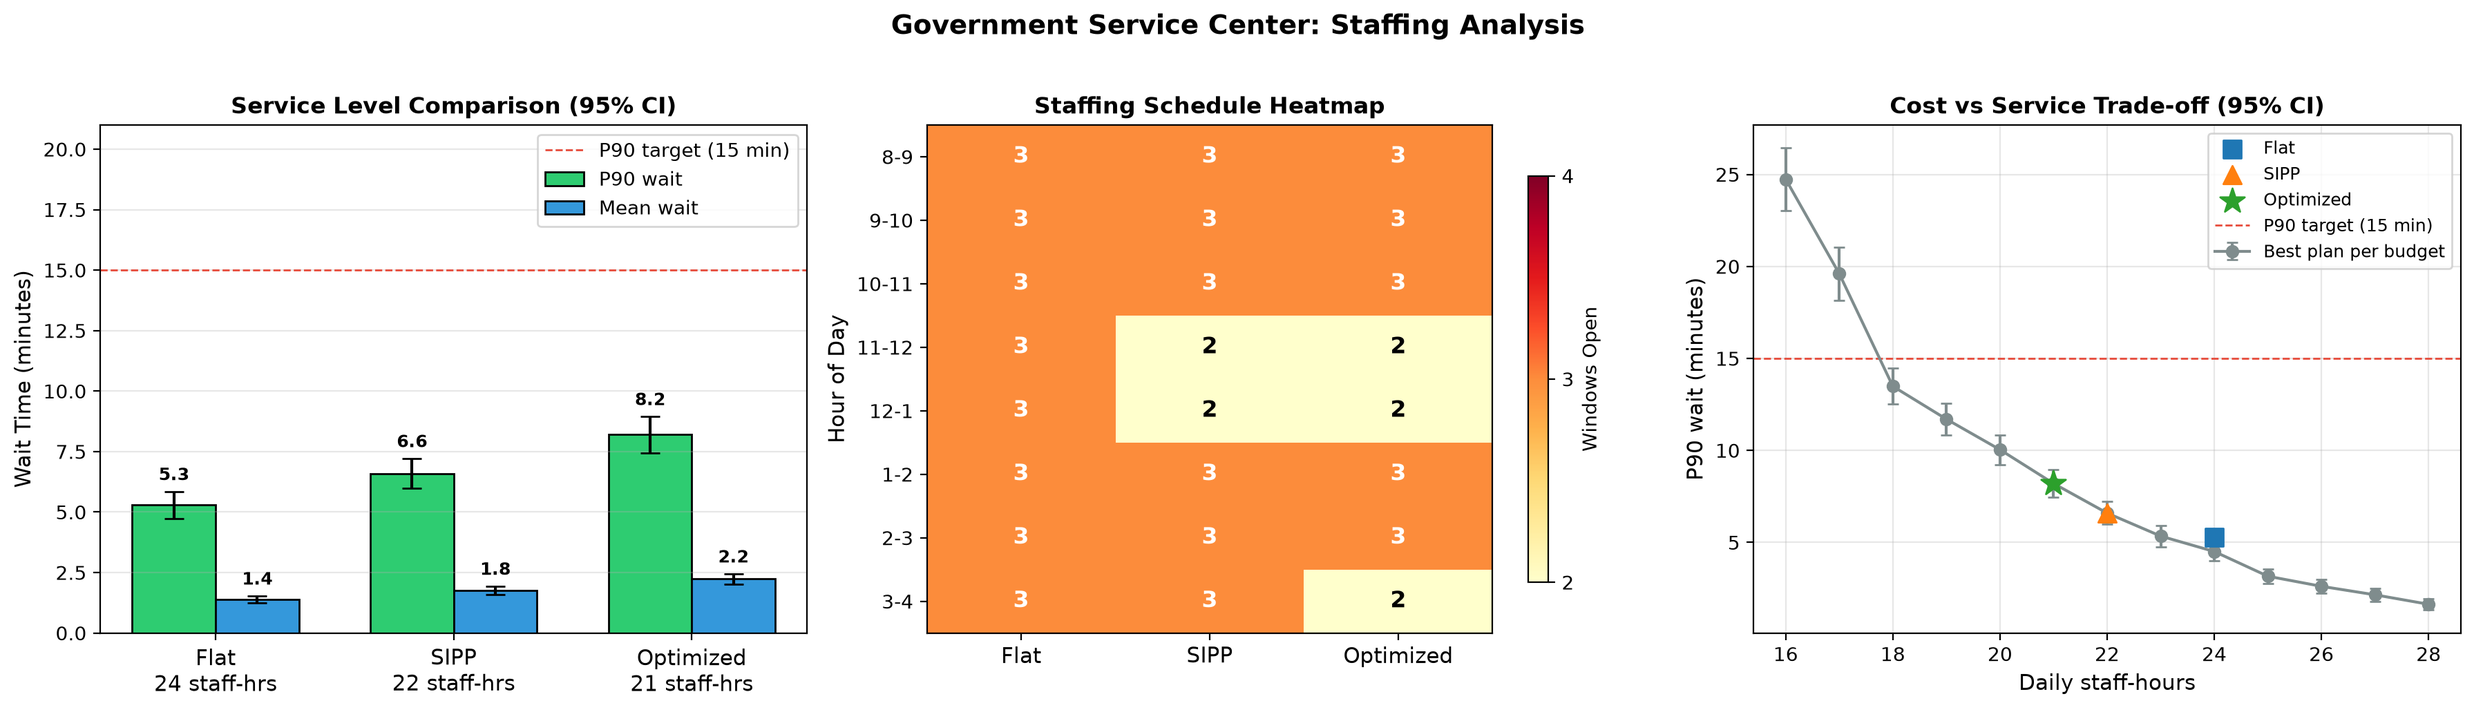
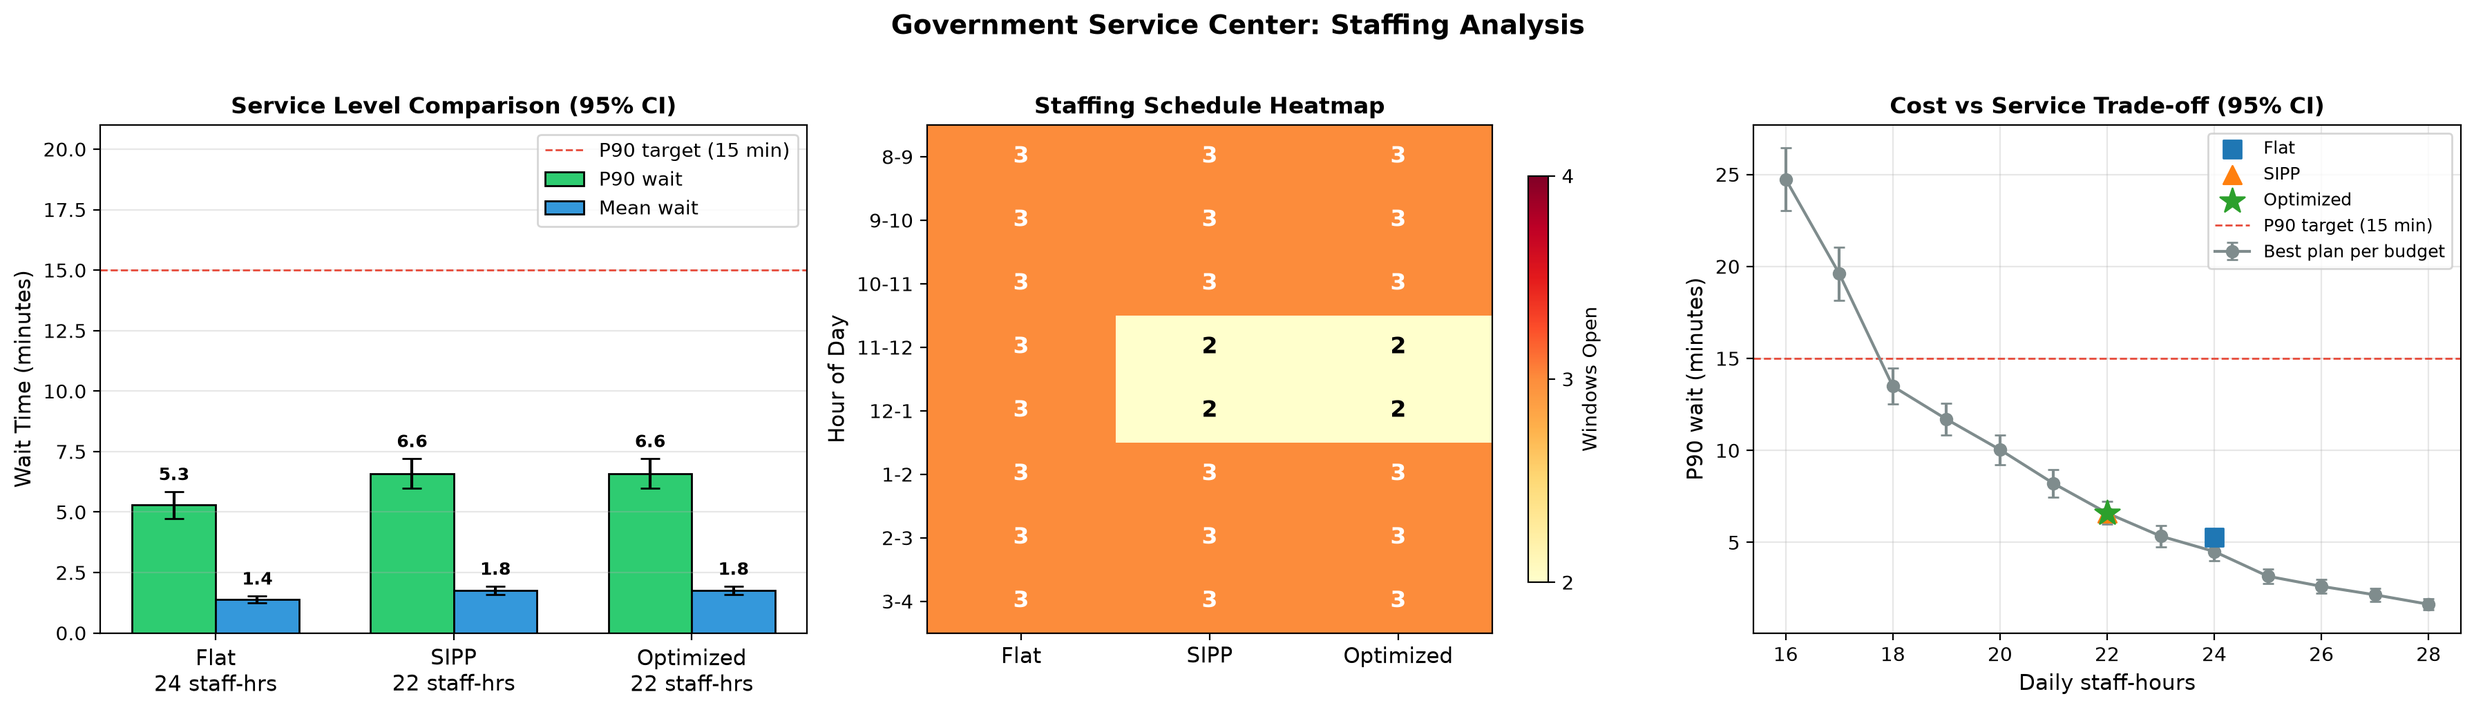
Optimizer: pay for work outside open windows by default
Staff cost is now paid staff-hours: open window-hours plus the service a
closing window finishes after its hour and all service after closing, at
--overtime-rate x the wage (default 1; 0 restores the open-hours objective).
Research round 8 (REPORT section 5.12) showed that counting open hours only
treats that work as free.

For the default office the recommendation moves from the 21 h plan to the
22 h plan [3, 3, 3, 2, 2, 3, 3, 3] (statistically tied); README output
regenerated. Also restores the simulator-skip guard on TestStressTest.

diff --git a/python/optimizer.py b/python/optimizer.py
@@ -52,6 +52,11 @@ NUM_REPLICATIONS = 10       # Screening replications per configuration
 CONFIRM_REPLICATIONS = 300
 CONFIRM_TOP_K = 30          # Finalists re-evaluated in the second stage (the cost
                             # surface is flat near the optimum, so shortlist widely)
+# Service after closing, and at a window finishing its citizen after its hour,
+# is paid at this multiple of the regular wage. Counting only the open hours
+# treats that work as free, which flatters plans that lean on overtime
+# (research/REPORT.md, section 5.12). 0 counts open window-hours only.
+OVERTIME_RATE = 1.0
 MEAN_SERVICE_TIME = 8.0     # minutes
 P90_TARGET = 15.0           # minutes
 STRESS_FACTORS = (0.9, 1.0, 1.1, 1.2)   # Demand multipliers for robustness checks
@@ -127,6 +132,24 @@ class SimulationResult:
     mean_service: float = 0.0
     # (result, mean cost difference, 95% CI) for finalists statistically tied with this one
     tied_alternatives: list = field(default_factory=list)
+
+    def daily_paid_hours(self, overtime_rate: float = None) -> list:
+        """
+        Paid staff-hours per day: the open windows' hours plus the service
+        work outside them (a closing window finishing its citizen, and service
+        after the doors close), paid at `overtime_rate` x the regular wage.
+        Staff leave once they have nobody left to serve.
+        """
+        kappa = OVERTIME_RATE if overtime_rate is None else overtime_rate
+        if not self.daily_spill:
+            return [float(self.total_staff_hours)] * max(1, len(self.daily_mean_waits))
+        return [self.total_staff_hours + kappa * (spill + after) / 60.0
+                for spill, after in zip(self.daily_spill, self.daily_overtime_busy)]
+
+    def paid_staff_hours(self, overtime_rate: float = None) -> float:
+        """Mean daily paid staff-hours; see daily_paid_hours."""
+        days = self.daily_paid_hours(overtime_rate)
+        return sum(days) / len(days)
 
 
 # ============================================================================
@@ -382,14 +405,18 @@ def generate_feasible_staffing(
 def compute_cost(
     result: SimulationResult,
     wait_weight: float = 1.0,
-    staff_weight: float = 0.5
+    staff_weight: float = 0.5,
+    overtime_rate: float = OVERTIME_RATE
 ) -> float:
     """
-    Compute weighted cost: w1 * mean_wait + w2 * total_staff_hours
+    Compute weighted cost: w1 * mean_wait + w2 * paid_staff_hours
 
-    Per project plan objective function.
+    Per project plan objective function, with staff-hours counting the
+    service work done after closing and at closing windows at
+    `overtime_rate` x the wage (0 counts open window-hours only).
     """
-    return wait_weight * result.mean_wait + staff_weight * result.total_staff_hours
+    return (wait_weight * result.mean_wait
+            + staff_weight * result.paid_staff_hours(overtime_rate))
 
 
 def _evaluate_all(
@@ -432,7 +459,8 @@ def grid_search_optimize(
     replications: int = NUM_REPLICATIONS,
     confirm_top_k: int = CONFIRM_TOP_K,
     confirm_replications: int = CONFIRM_REPLICATIONS,
-    workers: Optional[int] = None
+    workers: Optional[int] = None,
+    overtime_rate: float = OVERTIME_RATE
 ) -> tuple[SimulationResult, list[SimulationResult]]:
     """
     Two-stage grid search over feasible staffing configurations.
@@ -453,6 +481,7 @@ def grid_search_optimize(
         confirm_top_k: Finalists re-evaluated in stage 2
         confirm_replications: Replications per finalist
         workers: Parallel simulator processes (default: CPU count)
+        overtime_rate: Wage multiple for work outside open windows (0: unpaid)
 
     Returns:
         (best_result, all_screening_results)
@@ -465,14 +494,15 @@ def grid_search_optimize(
     if verbose:
         print(f"Grid Search: Evaluating {len(configurations)} configurations "
               f"x {replications} replications")
-        print(f"Cost function: {wait_weight}*wait + {staff_weight}*staff_hours")
+        print(f"Cost function: {wait_weight}*wait + {staff_weight}*paid_staff_hours "
+              f"(overtime paid at {overtime_rate:g}x)")
         if p90_target:
             print(f"P90 target: <= {p90_target} minutes")
 
     # Stage 1: screen everything
     results = _evaluate_all(configurations, replications, simulator_path, workers, verbose)
     for result in results:
-        result.cost_score = compute_cost(result, wait_weight, staff_weight)
+        result.cost_score = compute_cost(result, wait_weight, staff_weight, overtime_rate)
 
     # Keep anything that could plausibly meet the target given screening noise
     candidates = [
@@ -494,7 +524,7 @@ def grid_search_optimize(
     best_result = None
     best_cost = float('inf')
     for result in confirmed:
-        result.cost_score = compute_cost(result, wait_weight, staff_weight)
+        result.cost_score = compute_cost(result, wait_weight, staff_weight, overtime_rate)
         meets_constraint = (p90_target is None or result.p90_wait <= p90_target)
         if meets_constraint and result.cost_score < best_cost:
             best_cost = result.cost_score
@@ -505,8 +535,8 @@ def grid_search_optimize(
     # cannot be told apart from the winner with this many replications
     if best_result is not None:
         def daily_cost(r):
-            return [wait_weight * w + staff_weight * r.total_staff_hours
-                    for w in r.daily_mean_waits]
+            return [wait_weight * w + staff_weight * h
+                    for w, h in zip(r.daily_mean_waits, r.daily_paid_hours(overtime_rate))]
         best_daily = daily_cost(best_result)
         for result in confirmed:
             if result is best_result or not (p90_target is None or result.p90_wait <= p90_target):
@@ -531,16 +561,19 @@ def flat_staffing(windows_per_slot: int) -> list[int]:
     return [windows_per_slot] * 8
 
 
-def _print_scenario(s: SimulationResult):
+def _print_scenario(s: SimulationResult, overtime_rate: float = OVERTIME_RATE):
     print(f"    Staffing: {list(s.staffing)}")
     print(f"    Mean wait: {s.mean_wait:.2f} min  (95% CI: {s.mean_wait_ci[0]:.2f}-{s.mean_wait_ci[1]:.2f})")
     print(f"    P90 wait:  {s.p90_wait:.2f} min  (95% CI: {s.p90_wait_ci[0]:.2f}-{s.p90_wait_ci[1]:.2f})")
     print(f"    Staff-hours: {s.total_staff_hours}  |  Overtime: {s.avg_overtime:.1f} min"
           f"  |  n={s.n_replications} replications")
+    print(f"    Paid staff-hours (work after closing at {overtime_rate:g}x): "
+          f"{s.paid_staff_hours(overtime_rate):.1f}")
 
 
 def run_scenario_analysis(simulator_path: Path = None,
-                          sample_size: Optional[int] = None
+                          sample_size: Optional[int] = None,
+                          overtime_rate: float = OVERTIME_RATE
                           ) -> tuple[dict, list[SimulationResult]]:
     """
     Compare three staffing policies per project plan:
@@ -565,14 +598,14 @@ def run_scenario_analysis(simulator_path: Path = None,
     scenarios['flat'] = run_simulation(
         flat_staffing(3), replications=CONFIRM_REPLICATIONS, simulator_path=simulator_path
     )
-    _print_scenario(scenarios['flat'])
+    _print_scenario(scenarios['flat'], overtime_rate)
 
     # Scenario B: SIPP / Erlang-C
     print(f"\n[B] SIPP / Erlang-C (steady-state P90 <= {P90_TARGET:.0f} min each hour)")
     scenarios['sipp'] = run_simulation(
         sipp_staffing(), replications=CONFIRM_REPLICATIONS, simulator_path=simulator_path
     )
-    _print_scenario(scenarios['sipp'])
+    _print_scenario(scenarios['sipp'], overtime_rate)
 
     # Scenario C: Optimized with P90 <= 15 minutes
     print(f"\n[C] Optimized (P90 <= {P90_TARGET:.0f} min target)")
@@ -582,11 +615,12 @@ def run_scenario_analysis(simulator_path: Path = None,
         p90_target=P90_TARGET,
         simulator_path=simulator_path,
         verbose=False,
-        sample_size=sample_size
+        sample_size=sample_size,
+        overtime_rate=overtime_rate
     )
     if best:
         scenarios['optimized'] = best
-        _print_scenario(best)
+        _print_scenario(best, overtime_rate)
     else:
         print("    No feasible solution found")
 
@@ -718,7 +752,8 @@ def print_stress(stress: dict):
 # ============================================================================
 
 def generate_recommendation(scenarios: dict, stress: Optional[dict] = None,
-                            contingency: Optional[tuple] = None) -> str:
+                            contingency: Optional[tuple] = None,
+                            overtime_rate: float = OVERTIME_RATE) -> str:
     """
     Generate decision recommendation comparing scenarios.
 
@@ -764,7 +799,9 @@ def generate_recommendation(scenarios: dict, stress: Optional[dict] = None,
         report.append(f"    Peak staffing periods: {', '.join(peaks)}")
         report.append(f"    Expected P90 wait: {optimized.p90_wait:.1f} minutes "
                       f"(95% CI {optimized.p90_wait_ci[0]:.1f}-{optimized.p90_wait_ci[1]:.1f})")
-        report.append(f"    Total daily staff-hours: {optimized.total_staff_hours}")
+        report.append(f"    Total daily staff-hours: {optimized.total_staff_hours} "
+                      f"({optimized.paid_staff_hours(overtime_rate):.1f} paid, work after closing "
+                      f"at {overtime_rate:g}x)")
         for alt, diff, (low, high) in optimized.tied_alternatives:
             report.append(f"    Statistically tied: {list(alt.staffing)} "
                           f"({alt.total_staff_hours} h, cost {diff:+.2f}, "
@@ -796,7 +833,7 @@ def export_results_csv(results: list[SimulationResult], filename: str):
             'slot_0', 'slot_1', 'slot_2', 'slot_3',
             'slot_4', 'slot_5', 'slot_6', 'slot_7',
             'total_staff_hours', 'mean_wait', 'p90_wait',
-            'avg_served', 'avg_overtime', 'cost_score'
+            'avg_served', 'avg_overtime', 'paid_staff_hours', 'cost_score'
         ])
         for r in results:
             writer.writerow([
@@ -806,6 +843,7 @@ def export_results_csv(results: list[SimulationResult], filename: str):
                 f"{r.p90_wait:.2f}",
                 f"{r.avg_served:.1f}",
                 f"{r.avg_overtime:.1f}",
+                f"{r.paid_staff_hours():.2f}",
                 f"{r.cost_score:.2f}"
             ])
     print(f"Results exported to {filename}")
@@ -1130,6 +1168,13 @@ def main():
     )
 
     parser.add_argument(
+        "--overtime-rate",
+        type=float,
+        default=OVERTIME_RATE,
+        help="Wage multiple for service after closing and at closing windows "
+             "(default: %(default)s; 1.5 = time and a half; 0 = count open hours only)"
+    )
+    parser.add_argument(
         "--shifts",
         choices=["standard", "flexible"],
         default=None,
@@ -1147,7 +1192,8 @@ def main():
 
     if args.scenario_analysis:
         scenarios, all_results = run_scenario_analysis(simulator_path=sim_path,
-                                                       sample_size=args.sample_size)
+                                                       sample_size=args.sample_size,
+                                                       overtime_rate=args.overtime_rate)
 
         # Robustness to forecast error (same seeds for every plan and factor)
         stress = {
@@ -1169,7 +1215,7 @@ def main():
                                        known=list(scenarios.values()))
             print_frontier(frontier)
 
-        print(generate_recommendation(scenarios, stress, contingency))
+        print(generate_recommendation(scenarios, stress, contingency, args.overtime_rate))
         if args.shifts:
             print(format_roster_report(roster_search(args.shifts, args.target, sim_path)))
         if args.plot or args.save_plot is not None:
@@ -1182,7 +1228,8 @@ def main():
             p90_target=args.p90_target,
             simulator_path=sim_path,
             sample_size=args.sample_size,
-            verbose=True
+            verbose=True,
+            overtime_rate=args.overtime_rate
         )
 
         if best:
@@ -1190,7 +1237,8 @@ def main():
             print(f"  Staffing: {list(best.staffing)}")
             print(f"  Mean wait: {best.mean_wait:.2f} minutes")
             print(f"  P90 wait: {best.p90_wait:.2f} minutes")
-            print(f"  Staff-hours: {best.total_staff_hours}")
+            print(f"  Staff-hours: {best.total_staff_hours} "
+                  f"({best.paid_staff_hours(args.overtime_rate):.1f} paid)")
             print(f"  Cost score: {best.cost_score:.2f}")
 
         if args.frontier:

diff --git a/python/test_validation.py b/python/test_validation.py
@@ -129,6 +129,32 @@ class TestParetoFrontier(unittest.TestCase):
 
 
 @unittest.skipUnless(SIMULATOR.exists(), f"simulator not built at {SIMULATOR}")
+class TestPaidOvertime(unittest.TestCase):
+    def test_paid_hours_add_work_outside_open_windows(self):
+        r = _fake_result([2] * 8, 10.0)
+        r.daily_mean_waits = [1.0, 3.0]
+        r.daily_spill = [6.0, 12.0]            # minutes
+        r.daily_overtime_busy = [30.0, 42.0]
+        self.assertEqual(r.daily_paid_hours(0.0), [16.0, 16.0])
+        self.assertAlmostEqual(r.paid_staff_hours(1.0), 16.0 + 0.75)
+        self.assertAlmostEqual(r.paid_staff_hours(1.5), 16.0 + 1.5 * 0.75)
+        self.assertAlmostEqual(r.paid_staff_hours(), r.paid_staff_hours(optimizer.OVERTIME_RATE))
+
+    def test_zero_rate_is_the_old_objective(self):
+        r = _fake_result([3] * 8, 5.0)
+        r.mean_wait = 2.0
+        r.daily_spill, r.daily_overtime_busy = [10.0], [20.0]
+        self.assertAlmostEqual(optimizer.compute_cost(r, 1.0, 0.5, 0.0), 2.0 + 0.5 * 24)
+        self.assertAlmostEqual(optimizer.compute_cost(r, 1.0, 0.5, 1.0), 2.0 + 0.5 * 24.5)
+
+    def test_simulated_paid_hours_cover_the_open_hours(self):
+        r = run_simulation([2, 3, 2, 2, 2, 3, 3, 2], replications=20, simulator_path=SIMULATOR)
+        self.assertEqual(len(r.daily_paid_hours()), 20)
+        self.assertGreater(r.paid_staff_hours(1.0), r.total_staff_hours)
+        self.assertGreater(r.paid_staff_hours(1.5), r.paid_staff_hours(1.0))
+
+
+@unittest.skipUnless(SIMULATOR.exists(), f"simulator not built at {SIMULATOR}")
 class TestStressTest(unittest.TestCase):
     def test_base_factor_matches_plain_run_and_demand_raises_waits(self):
         staffing = [2, 3, 3, 2, 2, 3, 3, 2]

diff --git a/README.md b/README.md
@@ -201,7 +201,8 @@ frontier = pareto_frontier(all_results, known=list(scenarios.values()))
 best, all_results = grid_search_optimize(
     wait_weight=1.0,
     staff_weight=0.5,
-    p90_target=15.0  # Max 15-minute P90 wait
+    p90_target=15.0,     # Max 15-minute P90 wait
+    overtime_rate=1.0    # Work after closing paid at the regular wage (0: unpaid)
 )
 ```
 
@@ -215,6 +216,8 @@ The optimizer compares three staffing policies:
 | **B. SIPP / Erlang-C** | Each hour is treated as its own steady-state M/M/c queue, using the fewest windows with P(wait > 15 min) ≤ 10% (the textbook "stationary independent period-by-period" method) |
 | **C. Optimized** | Cost-minimized under the 15-minute P90 constraint, found by simulation |
 
+Staff cost is **paid** staff-hours: the open window-hours plus the service work done outside them (a window finishing its citizen after its hour ends, and serving everyone still inside after closing), paid at `--overtime-rate` times the regular wage (default 1; 1.5 = time and a half). Counting only open hours treats that work as free, which flatters plans that close with too few windows ([research/REPORT.md](research/REPORT.md) §5.12). `--overtime-rate 0` gives the old open-hours objective.
+
 ### Example Output
 Real output from `python optimizer.py --scenario-analysis`, with default arrival rates, 300 replications, and seeds 42–341:
 ```
@@ -223,18 +226,21 @@ Real output from `python optimizer.py --scenario-analysis`, with default arrival
     Mean wait: 1.39 min  (95% CI: 1.24-1.53)
     P90 wait:  5.29 min  (95% CI: 4.74-5.85)
     Staff-hours: 24  |  Overtime: 8.6 min  |  n=300 replications
+    Paid staff-hours (work after closing at 1x): 24.2
 
 [B] SIPP / Erlang-C (steady-state P90 <= 15 min each hour)
     Staffing: [3, 3, 3, 2, 2, 3, 3, 3]
     Mean wait: 1.77 min  (95% CI: 1.59-1.94)
     P90 wait:  6.59 min  (95% CI: 5.97-7.21)
     Staff-hours: 22  |  Overtime: 8.6 min  |  n=300 replications
+    Paid staff-hours (work after closing at 1x): 22.2
 
 [C] Optimized (P90 <= 15 min target)
-    Staffing: [3, 3, 3, 2, 2, 3, 3, 2]
-    Mean wait: 2.24 min  (95% CI: 2.03-2.45)
-    P90 wait:  8.20 min  (95% CI: 7.45-8.95)
-    Staff-hours: 21  |  Overtime: 11.9 min  |  n=300 replications
+    Staffing: [3, 3, 3, 2, 2, 3, 3, 3]
+    Mean wait: 1.77 min  (95% CI: 1.59-1.94)
+    P90 wait:  6.59 min  (95% CI: 5.97-7.21)
+    Staff-hours: 22  |  Overtime: 8.6 min  |  n=300 replications
+    Paid staff-hours (work after closing at 1x): 22.2
 
 ============================================================
 ROBUSTNESS: P90 wait (min) if demand differs from forecast
@@ -242,27 +248,28 @@ ROBUSTNESS: P90 wait (min) if demand differs from forecast
   Scenario      90% demand   100% demand   110% demand   120% demand
   Flat              3.8 ok        5.3 ok        6.9 ok        9.1 ok
   Sipp              4.8 ok        6.6 ok        8.4 ok       10.9 ok
-  Optimized         6.1 ok        8.2 ok       10.7 ok       13.6 ok
+  Optimized         4.8 ok        6.6 ok        8.4 ok       10.9 ok
 
 >>> RECOMMENDATION:
-    Adopt optimized staffing schedule: [3, 3, 3, 2, 2, 3, 3, 2]
-    Peak staffing periods: 8-9AM, 9-10AM, 10-11AM, 1-2PM, 2-3PM
-    Expected P90 wait: 8.2 minutes (95% CI 7.5-8.9)
-    Total daily staff-hours: 21
-    Statistically tied: [3, 3, 2, 2, 2, 3, 3, 2] (20 h, cost +0.03, 95% CI -0.07 to +0.12)
-    Statistically tied: [2, 3, 3, 2, 2, 3, 3, 2] (20 h, cost +0.10, 95% CI -0.00 to +0.19)
-    Statistically tied: [3, 3, 2, 2, 2, 3, 3, 3] (21 h, cost +0.05, 95% CI -0.07 to +0.18)
-    Statistically tied: [2, 4, 2, 2, 2, 3, 3, 2] (20 h, cost +0.02, 95% CI -0.09 to +0.13)
-    Statistically tied: [2, 3, 3, 2, 2, 3, 3, 3] (21 h, cost +0.12, 95% CI -0.00 to +0.25)
+    Adopt optimized staffing schedule: [3, 3, 3, 2, 2, 3, 3, 3]
+    Peak staffing periods: 8-9AM, 9-10AM, 10-11AM, 1-2PM, 2-3PM, 3-4PM
+    Expected P90 wait: 6.6 minutes (95% CI 6.0-7.2)
+    Total daily staff-hours: 22 (22.2 paid, work after closing at 1x)
+    Statistically tied: [2, 3, 3, 2, 2, 3, 3, 3] (21 h, cost +0.10, 95% CI -0.00 to +0.19)
+    Statistically tied: [3, 3, 2, 2, 2, 3, 3, 3] (21 h, cost +0.04, 95% CI -0.05 to +0.14)
+    Statistically tied: [3, 3, 2, 2, 2, 3, 3, 2] (20 h, cost +0.10, 95% CI -0.02 to +0.22)
+    Statistically tied: [2, 4, 2, 2, 2, 3, 3, 3] (21 h, cost +0.05, 95% CI -0.06 to +0.15)
+    Statistically tied: [3, 3, 3, 2, 2, 3, 3, 2] (21 h, cost +0.06, 95% CI -0.03 to +0.14)
     Meets the P90 target up to 120% of forecast demand
 ```
 
 ### Reading the Results
-- **The best plan uses 20 or 21 staff-hours, and six plans are tied.** With the default weights (1 per minute of mean wait, 0.5 per staff-hour), the cost curve is flat there: an extra staff-hour cuts mean wait by about 0.5–0.6 minutes, almost exactly its 0.5 price. The optimizer reports every finalist whose paired 95% CI on the cost difference includes zero, so read the output as "any of these". To choose among them:
-  - pick a 20-hour plan to save labor;
-  - pick the 21-hour plan to protect against busier-than-forecast days. It still meets the target at +20% demand, where the 20-hour plans do not.
-- **Staffing should lag demand.** Demand falls at 10AM (15 → 10 citizens/hour), but the recommended plan keeps 3 windows until 11AM to clear the 9AM backlog. Per-hour formulas like SIPP can't see this carryover between hours (Green, Kolesar & Soares, 2001).
-- **The trade-off:** relative to SIPP, the recommended plan saves 1 staff-hour per day for about 1.6 extra minutes of P90 wait (8.2 vs 6.6 min), well within the 15-minute target.
+- **The best plan uses 20 to 22 staff-hours, and six plans are tied.** With the default weights (1 per minute of mean wait, 0.5 per paid staff-hour), the cost curve is flat there: an extra staff-hour cuts mean wait by about 0.5 minutes, almost exactly its 0.5 price. The optimizer reports every finalist whose paired 95% CI on the cost difference includes zero, so read the output as "any of these". To choose among them:
+  - pick a 20- or 21-hour plan to save labor;
+  - pick the 22-hour plan to protect against busier-than-forecast days.
+- **Paying for overtime moves the winner by one hour.** Counting open hours only (`--overtime-rate 0`), the winner was the 21-hour plan [3, 3, 3, 2, 2, 3, 3, 2]. It closes with 2 windows, so its staff spend 0.41 h a day serving citizens after their hour ends, against 0.24 h with 3. Dropping that last window therefore saves 0.84 paid hours, not 1, which is worth less than the 0.47 minutes of mean wait it adds. The two plans remain statistically tied.
+- **Staffing should lag demand.** Demand falls at 10AM (15 → 10 citizens/hour), but the recommended plan keeps 3 windows until 11AM to clear the 9AM backlog. Per-hour formulas like SIPP can't see this carryover between hours (Green, Kolesar & Soares, 2001); at these defaults SIPP happens to keep the third window too, but its error grows with service time ([research/REPORT.md](research/REPORT.md) §5.2).
+- **The trade-off:** with paid overtime the recommended plan coincides with SIPP's for this office. The tied 21-hour plan [3, 3, 3, 2, 2, 3, 3, 2] saves 1 open hour (0.84 paid) for about 1.6 extra minutes of P90 wait (8.2 vs 6.6 min), still well within the 15-minute target.
 - **Forecast risk:** the recommended plan meets the target even with 20% more demand than forecast. Staffing to a single point forecast is a known weakness (Whitt, 2006), so the stress test is part of every scenario run.
 
 ### Cost vs Service Trade-off
@@ -274,8 +281,8 @@ The weighted cost picks among plans, but the real decision is how many staff-hou
 | 18 | 13.5 (12.5–14.5) | 4.2 | [2, 3, 2, 2, 2, 2, 3, 2] |
 | 19 | 11.7 (10.8–12.6) | 3.4 | [2, 3, 2, 2, 2, 3, 3, 2] |
 | 20 | 10.0 (9.2–10.8) | 2.8 | [2, 3, 3, 2, 2, 3, 3, 2] |
-| **21** | **8.2 (7.5–8.9)** | **2.2** | **[3, 3, 3, 2, 2, 3, 3, 2]** (optimized) |
-| 22 | 6.6 (6.0–7.2) | 1.8 | [3, 3, 3, 2, 2, 3, 3, 3] (SIPP) |
+| 21 | 8.2 (7.5–8.9) | 2.2 | [3, 3, 3, 2, 2, 3, 3, 2] (optimized if overtime is unpaid) |
+| **22** | **6.6 (6.0–7.2)** | **1.8** | **[3, 3, 3, 2, 2, 3, 3, 3]** (optimized; SIPP) |
 | 24 | 4.5 (4.0–5.0) | 1.2 | [3, 4, 3, 2, 3, 3, 3, 3] |
 
 18 staff-hours is the cheapest budget that meets the 15-minute target, with its whole CI below it. Under an hour-by-hour target (every hour at most 10% of arrivals waiting over 15 minutes), the answer is 21 ([research/REPORT.md](research/REPORT.md) §5.4).
